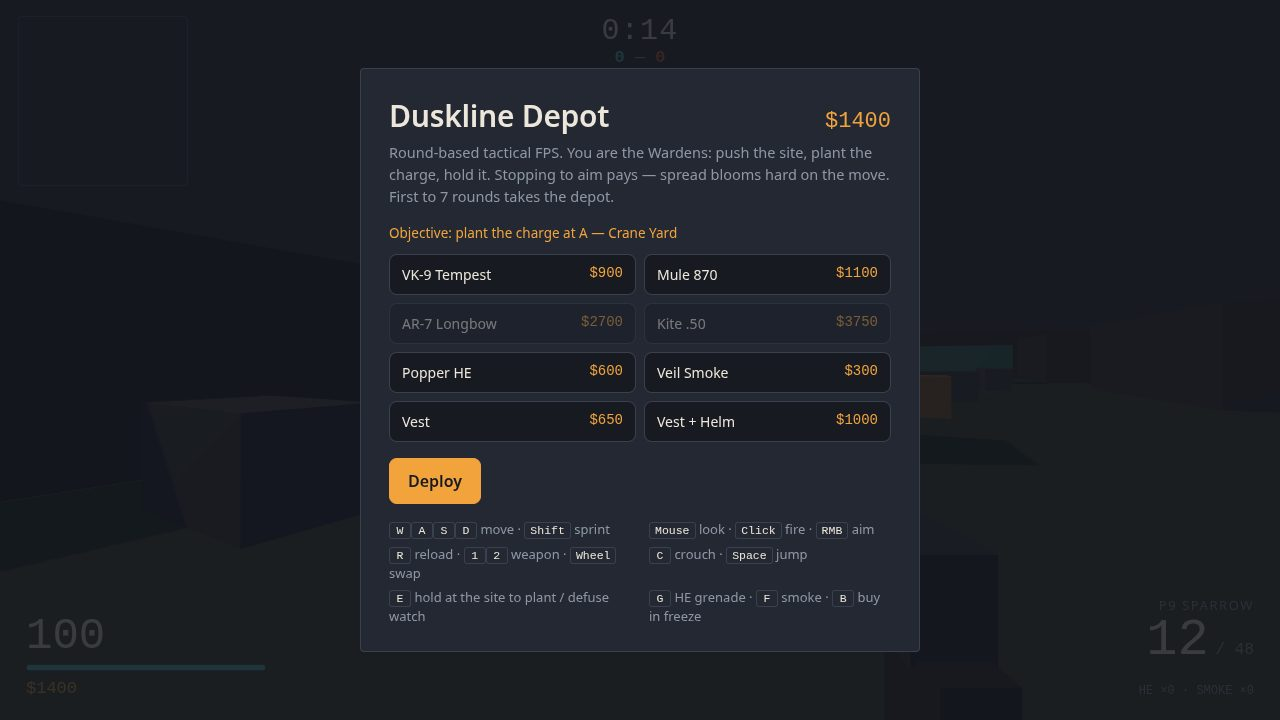
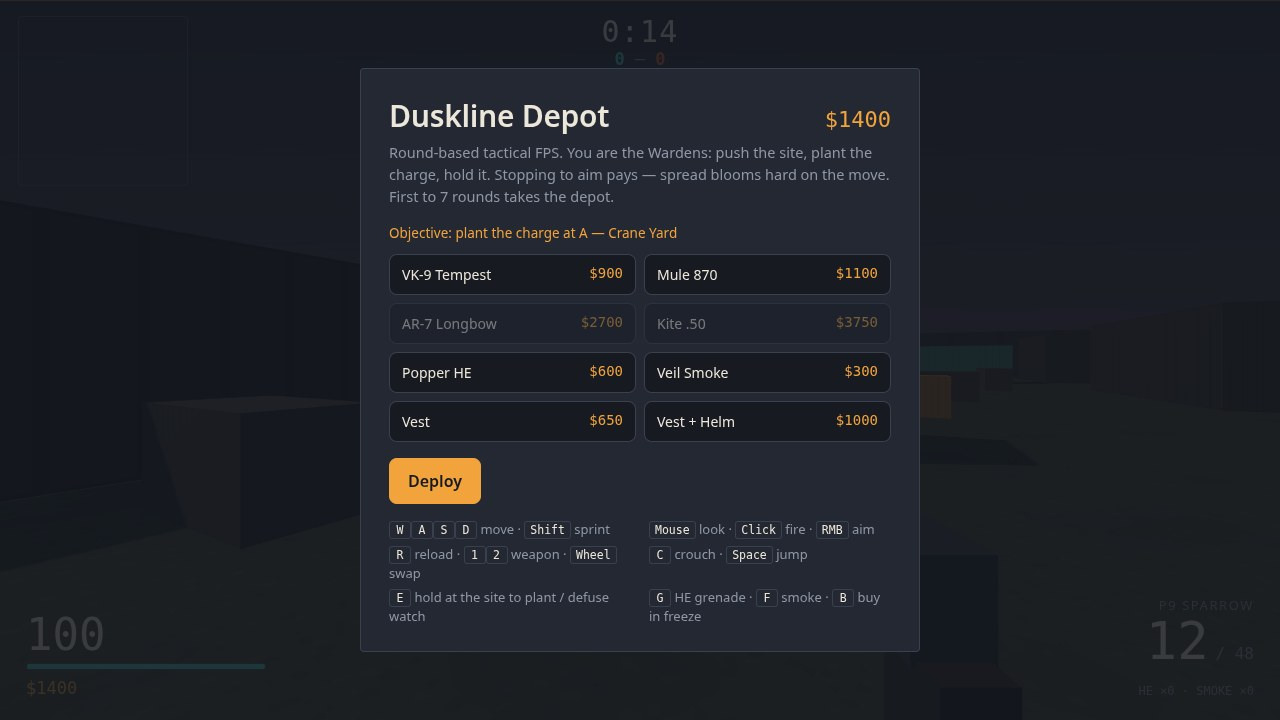
Round 2: mirror the dev leaders' form — procedural textures and dusk-gradient sky, painted site boards, planting-in-progress frame, design-notes header

diff --git a/game/src/main.js b/game/src/main.js
@@ -2,9 +2,32 @@
 // weapons, grenades, the charge, the round clock) feeds a render at the display's rate; no
 // game state lives here except the wiring: match state is state.js, bodies are player.js and
 // bots.js, numbers are weapons.js.
-// Modes: plain play (pointer lock), ?shot=buy|combat|plant|victory (deterministic frames for
-// screenshots, window.__shotReady when painted), ?test=1 (a scripted game driven through the
-// real input state, reporting window.__testResult).
+// Modes: plain play (pointer lock), ?shot=buy|combat|scope|plant|victory (deterministic
+// frames for screenshots, window.__shotReady when painted), ?test=1 (a scripted game driven
+// through the real input state, reporting window.__testResult).
+//
+// Design notes — what is in the game, in the order it is judged:
+// 1. Complete: 5 v 5 (you + 4 Warden bots vs 5 Jackal bots); rounds of buy 14 s -> live
+//    105 s -> planted 38 s, first to 7; the HUD carries health + armour, magazine /
+//    reserve, the round clock, the score, money and a live minimap with both sites.
+// 2. Gunplay: per-pellet raycasts, head x4 on the rifle and pistol, per-gun damage falloff
+//    (weapons.js damageAt); spreadFor() is near-zero standing, blooms with speed, crouch
+//    claws some back, ADS halves it and the Kite .50 zooms x4; per-gun view kick, reloads,
+//    a dry-fire click on empty. Movement accelerates and damps (player.js) with sprint,
+//    crouch, jump and AABB collision — stopping to aim pays.
+// 3. Tactics: plant / defuse the charge on A (Crane Yard) or B (Fuel Row); $1.400 to start,
+//    +$300 a kill, +$300 a plant, +$2.400 a round won, +$1.400 a round lost, spent in the
+//    buy menu on 5 guns ($0-$3.750), Popper HE $600, Veil Smoke $300, Vest $650 and
+//    Vest + Helm $1.000. The bots perceive by height-aware line of sight and by hearing (a
+//    shot sets a last-known position), path by A* over the 32-node graph, and run
+//    objective / engage / cover / defuse states with burst discipline: they hold the
+//    sites, rotate on the plant, and break for cover hurt or reloading.
+// 4. Map and look: one original 62 x 62 m harbour depot at dusk — containers, crates, a
+//    crane over A, fuel drums on B — in six palette colours plus the two team colours
+//    (palette.js), under lamps and long shadows; no borrowed art, names or layout.
+// 5. Code: one job per module, match state only in state.js, a fixed 60 Hz simulation
+//    split from rendering, pooled effects and grenades — nothing allocated per frame in
+//    the hot loops.
 import * as THREE from 'three';
 import { PALETTE } from './palette.js';
 import { createWorld, SITES, SPAWNS } from './world.js';
@@ -693,54 +716,84 @@ function runShot(name) {
     guns.rifle.mag = 24;
     player.state.position.set(3.2, 0, 12.5);
     player.state.hp = 82;
-    placeBot('jackal', 0, 0.5, -2.5, Math.PI);
-    placeBot('jackal', 1, 7, -7, Math.PI * 0.85);
+    placeBot('jackal', 0, 1.2, 4.2, Math.PI);
+    placeBot('jackal', 1, 9.5, 0.5, Math.PI * 0.85);
     placeBot('warden', 0, -3.5, 14, 0.2);
     placeBot('warden', 1, 6.2, 16, -0.3);
-    aimAt(0.5, 1.3, -2.5);
+    aimAt(1.2, 1.3, 4.2);
     ms.loadout.armour = 1;
     hud.setHealth(82, 1);
     refreshAmmoHud();
     hud.setMoney(ms.money);
     hud.hitMarker(false);
-    tmpVec.set(3.2, 1.5, 12.5);
-    tmpVec2.set(0.5, 1.25, -2.5);
+    tmpVec.set(3.0, 1.45, 11.4);
+    tmpVec2.set(1.2, 1.3, 4.2);
     effects.tracer(tmpVec, tmpVec2);
-    effects.impact(tmpVec2, 6);
+    effects.impact(tmpVec2, 8);
+    tmpVec.set(9.5, 1.4, 0.5);
+    tmpVec2.set(4.8, 1.1, 11.6);
+    effects.tracer(tmpVec, tmpVec2);
     hud.drawMinimap({
       colliders: world.colliders, playerPos: player.state.position, playerYaw: player.state.yaw,
       bots: bots.bots, site: ms.site, chargePos: null, time,
     });
     syncCamera();
   } else if (name === 'plant') {
-    ms.phase = 'planted';
-    ms.timer = 21;
+    ms.phase = 'live';
+    ms.timer = 47;
     ms.round = 8;
     ms.score.warden = 5;
     ms.score.jackal = 4;
     ms.site = 'A';
-    ms.money = 3400;
+    ms.money = 2150;
     ms.loadout.primary = 'rifle';
     ms.loadout.armour = 1;
     currentGun = 'rifle';
     viewModels.show('rifle');
-    guns.rifle.mag = 18;
+    guns.rifle.mag = 27;
     hud.setHealth(100, 1);
     refreshAmmoHud();
-    player.state.position.set(-13.6, 0, -16.5);
-    effects.charge.position.set(-19, 0, -21);
-    effects.charge.visible = true;
-    effects.setChargeBlink(true);
-    placeBot('warden', 0, -23.5, -18, -0.9);
-    placeBot('warden', 1, -15, -25.5, 0.7);
-    placeBot('jackal', 0, -8.5, -13, Math.PI * 1.25);
-    aimAt(-9, 1.2, -13.5);
-    hud.setObjective('Defend the charge');
+    player.state.position.set(-19, 0, -16.4);
+    placeBot('warden', 0, -16.2, -19.5, -2.26);
+    placeBot('jackal', 0, -23.5, -25.5, 0.46);
+    aimAt(-21.5, 1.2, -24);
+    hud.setObjective('Planting the charge — 62%');
     hud.drawMinimap({
       colliders: world.colliders, playerPos: player.state.position, playerYaw: player.state.yaw,
-      bots: bots.bots, site: ms.site, chargePos: effects.charge.position, time,
+      bots: bots.bots, site: ms.site, chargePos: null, time,
     });
     syncCamera();
+  } else if (name === 'scope') {
+    ms.phase = 'live';
+    ms.timer = 47;
+    ms.round = 6;
+    ms.score.warden = 3;
+    ms.score.jackal = 3;
+    ms.site = 'B';
+    ms.money = 3900;
+    ms.loadout.primary = 'sniper';
+    ms.loadout.armour = 1;
+    currentGun = 'sniper';
+    viewModels.show('sniper');
+    guns.sniper.mag = 4;
+    player.state.position.set(19.5, 0, 3.5);
+    player.state.hp = 100;
+    placeBot('jackal', 0, 18.2, -11.5, Math.PI);
+    placeBot('jackal', 1, 23.5, -19, Math.PI * 1.1);
+    placeBot('warden', 0, 14.5, 6.5, -0.4);
+    aimAt(18.2, 1.35, -11.5);
+    hud.setObjective('Plant the charge at B — Fuel Row — hold E on the site');
+    input.state.ads = true;
+    hud.setHealth(100, 1);
+    refreshAmmoHud();
+    hud.setMoney(ms.money);
+    hud.drawMinimap({
+      colliders: world.colliders, playerPos: player.state.position, playerYaw: player.state.yaw,
+      bots: bots.bots, site: ms.site, chargePos: null, time,
+    });
+    syncCamera();
+    camera.fov = 74 / WEAPONS.sniper.zoom;
+    camera.updateProjectionMatrix();
   } else if (name === 'victory') {
     ms.phase = 'end';
     ms.score.warden = 7;
@@ -751,6 +804,10 @@ function runShot(name) {
     placeBot('warden', 1, -14.5, -20, 0.9);
     aimAt(-19, 1.6, -21);
     hud.banner('DEPOT SECURED', 'Wardens win the match 7 — 4', 60);
+    hud.drawMinimap({
+      colliders: world.colliders, playerPos: player.state.position, playerYaw: player.state.yaw,
+      bots: bots.bots, site: ms.site, chargePos: null, time,
+    });
     syncCamera();
   }
   hud.setTop(ms);

diff --git a/game/src/world.js b/game/src/world.js
@@ -75,15 +75,68 @@ function segmentHitsRect(x1, z1, x2, z2, minX, maxX, minZ, maxZ) {
 export function createWorld(scene) {
   const group = new THREE.Group();
   scene.add(group);
+
+  // Procedural surface detail, drawn once on canvases with a seeded PRNG so every build
+  // textures identically: a speckled scrub texture for the ground and a corrugated-rib
+  // texture that multiplies every block colour, so flat palette boxes read as concrete,
+  // crates and container steel instead of plain slabs.
+  function canvasTexture(size, draw, repeatX, repeatY) {
+    const canvas = document.createElement('canvas');
+    canvas.width = size[0];
+    canvas.height = size[1];
+    draw(canvas.getContext('2d'), size[0], size[1]);
+    const tex = new THREE.CanvasTexture(canvas);
+    tex.wrapS = THREE.RepeatWrapping;
+    tex.wrapT = THREE.RepeatWrapping;
+    tex.repeat.set(repeatX, repeatY);
+    tex.anisotropy = 4;
+    tex.colorSpace = THREE.SRGBColorSpace;
+    return tex;
+  }
+  let seed = 20261116;
+  const rnd = () => {
+    seed = (seed * 1664525 + 1013904223) >>> 0;
+    return seed / 4294967296;
+  };
+  const groundTex = canvasTexture([256, 256], (g, w, h) => {
+    g.fillStyle = PALETTE.grass;
+    g.fillRect(0, 0, w, h);
+    for (let i = 0; i < 2400; i++) {
+      const v = rnd();
+      g.fillStyle = v < 0.5 ? 'rgba(0,0,0,0.13)' : (v < 0.8 ? 'rgba(236,231,218,0.05)' : 'rgba(90,140,90,0.10)');
+      g.fillRect(rnd() * w, rnd() * h, 1 + rnd() * 2.5, 1 + rnd() * 2.5);
+    }
+    for (let i = 0; i < 12; i++) {
+      g.fillStyle = 'rgba(0,0,0,0.07)';
+      g.beginPath();
+      g.ellipse(rnd() * w, rnd() * h, 14 + rnd() * 30, 8 + rnd() * 18, rnd() * 3, 0, 7);
+      g.fill();
+    }
+  }, 10, 10);
+  const ribTex = canvasTexture([128, 128], (g, w, h) => {
+    g.fillStyle = '#ffffff';
+    g.fillRect(0, 0, w, h);
+    for (let x = 0; x < w; x += 16) {
+      g.fillStyle = 'rgba(0,0,0,0.17)';
+      g.fillRect(x, 0, 2, h);
+      g.fillStyle = 'rgba(255,255,255,0.06)';
+      g.fillRect(x + 2, 0, 1, h);
+    }
+    g.fillStyle = 'rgba(0,0,0,0.10)';
+    g.fillRect(0, 0, w, 2);
+    g.fillRect(0, h - 2, w, 2);
+  }, 2, 1);
+
   const materials = {};
   for (const name of Object.keys(PALETTE)) {
     materials[name] = new THREE.MeshStandardMaterial({
       color: new THREE.Color(PALETTE[name]),
       roughness: name === 'accent' ? 0.5 : 0.9,
       metalness: 0.04,
+      map: ribTex,
     });
   }
-  materials.ground = new THREE.MeshStandardMaterial({ color: new THREE.Color(PALETTE.grass), roughness: 1 });
+  materials.ground = new THREE.MeshStandardMaterial({ color: new THREE.Color('#ffffff'), roughness: 1, map: groundTex });
 
   const colliders = [];
   const shootables = [];
@@ -136,7 +189,7 @@ export function createWorld(scene) {
     const bulb = new THREE.Mesh(boxGeo(0.5, 0.18, 0.5), bulbMat);
     bulb.position.set(x, 5.45, z);
     group.add(pole, bulb);
-    const light = new THREE.PointLight(new THREE.Color(PALETTE.accent), 14, 15, 1.8);
+    const light = new THREE.PointLight(new THREE.Color(PALETTE.accent), 22, 15, 1.8);
     light.position.set(x, 5.2, z);
     group.add(light);
   }
@@ -151,12 +204,56 @@ export function createWorld(scene) {
   craneLoad.position.set(-16, 5.6, -27);
   group.add(craneLeg, craneArm, craneHook, craneLoad);
 
-  // Light: low warm sun from the west, cool sky fill, and the lamps above.
-  scene.background = new THREE.Color(PALETTE.canvas);
-  scene.fog = new THREE.Fog(new THREE.Color(PALETTE.canvas), 34, 95);
-  const sky = new THREE.HemisphereLight(new THREE.Color(PALETTE.muted), new THREE.Color(PALETTE.canvas), 1.15);
+  // Painted site boards on the north wall, one per charge site: the map names its own
+  // objectives in-world, the way a real depot is signed.
+  for (const [key, site] of Object.entries(SITES)) {
+    const signTex = canvasTexture([1024, 512], (g, w, h) => {
+      g.fillStyle = '#1d2129';
+      g.fillRect(0, 0, w, h);
+      g.strokeStyle = PALETTE.accent;
+      g.lineWidth = 12;
+      g.strokeRect(20, 20, w - 40, h - 40);
+      g.fillStyle = PALETTE.accent;
+      g.font = '900 330px system-ui, sans-serif';
+      g.textAlign = 'center';
+      g.fillText(key, 215, 395);
+      g.textAlign = 'left';
+      g.fillStyle = PALETTE.muted;
+      g.font = '600 44px system-ui, sans-serif';
+      g.fillText('CHARGE SITE', 400, 150);
+      g.fillStyle = PALETTE.ink;
+      g.font = '700 96px system-ui, sans-serif';
+      g.fillText(site.name.split('— ')[1].toUpperCase(), 396, 268);
+      g.fillStyle = PALETTE.muted;
+      g.font = '500 44px system-ui, sans-serif';
+      g.fillText('DUSKLINE DEPOT', 400, 348);
+    }, 1, 1);
+    const sign = new THREE.Mesh(
+      new THREE.PlaneGeometry(8, 4),
+      new THREE.MeshBasicMaterial({ map: signTex }),
+    );
+    sign.position.set(site.x, 2.4, -29.9);
+    group.add(sign);
+  }
+
+  // Light: low warm sun from the west, cool sky fill, and the lamps above. The sky is a
+  // dusk gradient — indigo up top melting to amber at the horizon — and the fog takes the
+  // horizon's warm mauve so the far walls melt into the sunset instead of a flat void.
+  const skyTex = canvasTexture([16, 256], (g, w, h) => {
+    const grad = g.createLinearGradient(0, 0, 0, h);
+    grad.addColorStop(0, '#141824');
+    grad.addColorStop(0.45, '#362e3d');
+    grad.addColorStop(0.72, '#7d4c36');
+    grad.addColorStop(0.88, '#c07a3d');
+    grad.addColorStop(1, '#e09a4a');
+    g.fillStyle = grad;
+    g.fillRect(0, 0, w, h);
+  }, 1, 1);
+  scene.background = skyTex;
+  scene.fog = new THREE.Fog(new THREE.Color('#5f3d33'), 40, 112);
+  const sky = new THREE.HemisphereLight(new THREE.Color(PALETTE.muted), new THREE.Color(PALETTE.canvas), 1.7);
   scene.add(sky);
-  const sun = new THREE.DirectionalLight(new THREE.Color('#ffd9a0'), 2.2);
+  const sun = new THREE.DirectionalLight(new THREE.Color('#ffd9a0'), 2.7);
   sun.position.set(-26, 30, 12);
   sun.castShadow = true;
   sun.shadow.mapSize.set(2048, 2048);
